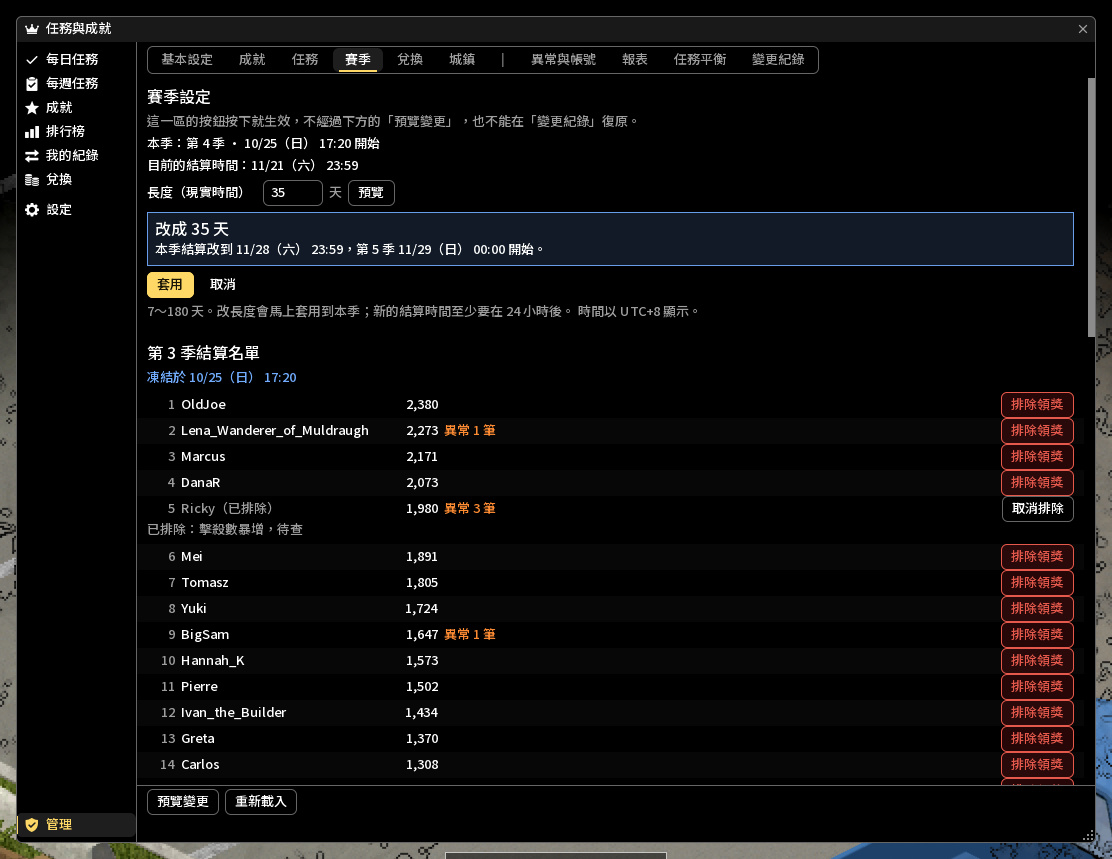
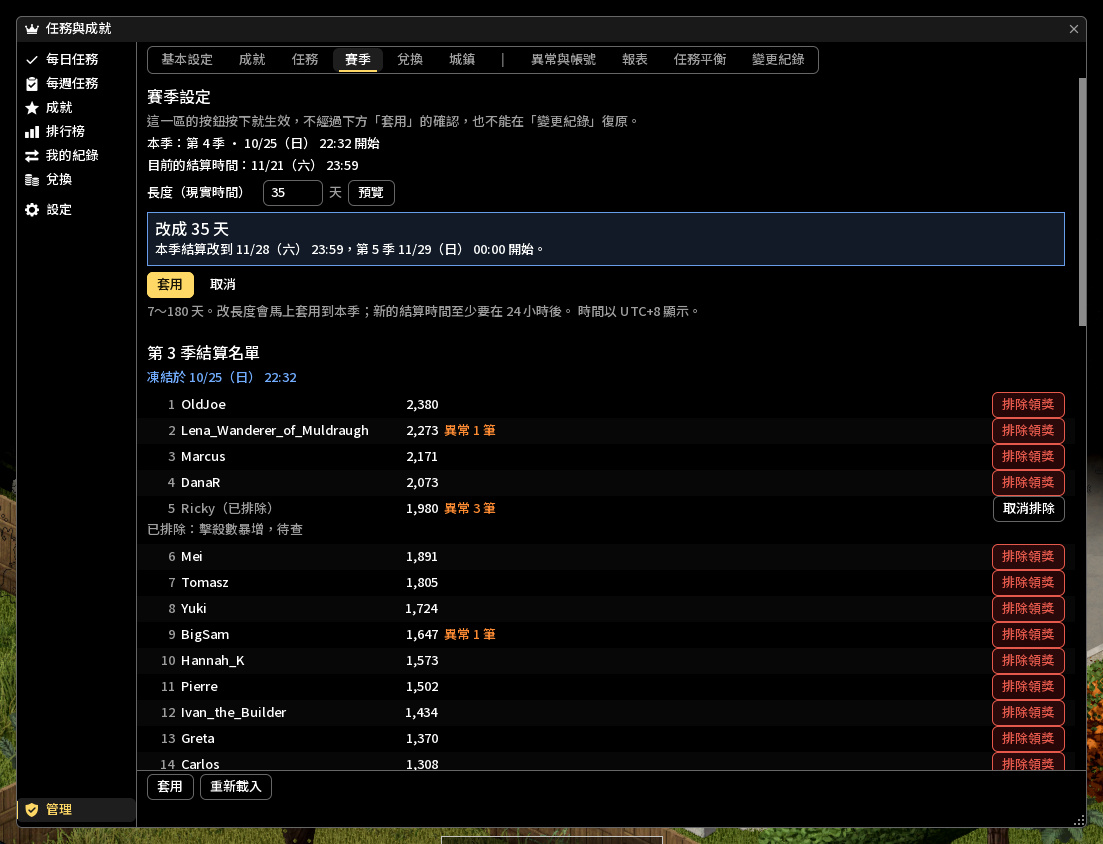
試玩回饋：底部「預覽變更」改名「套用」（16 語與相關說明、README、Steam 指南）；修任務頁「跳到」按鈕點了沒反應（自訂欄位蓋掉 ISButton 的 target，harness 與 E2E 改走 ISButton 的派送）；報表改藍橘配色、大數字同色、成就欄頭用各級顏色；Steam 指南補報表分頁（ui-mp CH／EN／RU 1025m）

Changed region(s): [[0.0, 0.0616, 1.0, 1.0], [0.0, 0.0, 0.0925, 0.2773], [0.3699, 0.4621, 0.4624, 0.6161]]

diff --git a/STEAM_GUIDE_EN.md b/STEAM_GUIDE_EN.md
@@ -298,9 +298,9 @@ The sandbox page "Minidoracat Quests & Achievements" has three options; everythi
 Open "Admin" on the left of the window (its own group at the bottom of the list); only roles listed in the "Admin roles" sandbox option see it, and the server checks every action again.
 [h3]How changes work[/h3]
 [list]
-[*] [b]Tabs[/b]: settings come first (General, Achievements, Quests, Season, Exchange, Towns); after the divider come operations (Players, Balance, History).
-[*] [b]Draft first[/b]: edits go into pending changes; press "Preview changes" to see old and new values, then apply. "Discard changes" asks before it discards.
-[*] [b]Instant buttons[/b]: timed events, the payout review and account actions skip the preview; those sections say so.
+[*] [b]Tabs[/b]: settings come first (General, Achievements, Quests, Season, Exchange, Towns); after the divider come operations (Players, Report, Balance, History).
+[*] [b]Draft first[/b]: edits go into pending changes; press "Apply" at the bottom to see old and new values, then confirm. "Discard changes" asks before it discards.
+[*] [b]Instant buttons[/b]: timed events, the payout review and account actions skip that confirmation; those sections say so.
 [*] [b]Unlocks are kept[/b]: higher thresholds only affect what comes next.
 [*] [b]Times[/b]: shown in the sandbox time zone.
 [/list]
@@ -324,7 +324,7 @@ Steps 1-5 cover the common settings; the other tabs hold the rest.
 [/list]
 [h3]Quests[/h3]
 [list]
-[*] [b]Players see each theme's quests[/b]: the switch at the top of the tab, off by default. While it is off only admins see the quests-by-theme list at the bottom of Settings, with a note that players cannot see it; turned on, players see it too. Like other settings it goes into pending changes, is previewed before it applies, and shows in History.
+[*] [b]Players see each theme's quests[/b]: the switch at the top of the tab, off by default. Off, only admins see the quests-by-theme list at the bottom of Settings, marked as hidden from players; on, players see it too. It goes through Apply and History like any setting.
 [*] [b]Theme filter[/b]: the list shows how many daily and weekly quests each theme has; with a theme picked, buttons beside the filter turn the whole group on or off, or multiply its targets by 0.8 or 1.25. The result goes into pending changes, the bar says what was done, and templates with pending changes show "(changed)". Buttons under the filter jump to the community goal, streak rewards, newcomer quests and timed events.
 [*] [b]Daily and weekly pools[/b]: on/off, target range and points per template; of two templates with the same name, the bigger one shows "(bulk)".
 [*] [b]Daily and weekly settings[/b]: points for the server-wide quest, swaps per day, weekly quests.
@@ -353,6 +353,14 @@ Steps 1-5 cover the common settings; the other tabs hold the rest.
 [*] [b]Look up an account[/b]: View on a row, or type the account, lists at the top of the page its three point numbers, achievements, anomalies this season and whether it is removed from the leaderboards.
 [*] [b]Revoke achievements[/b]: down to a chosen tier, or all of it.
 [*] [b]Remove from or return to the leaderboards[/b]: data is kept. Revoking and removing require a reason and record who did it.
+[/list]
+[h3]Report[/h3]
+[list]
+[*] [b]Scope[/b]: totals for the last 7 or 30 days, counts only, no individual players; recounted when the page opens and kept for 5 minutes.
+[*] [b]Usage[/b]: players with activity today and in the period, new accounts, daily and weekly completion, swaps, 7+ day streaks, and a pair of bars per day: players with activity and players who finished a daily quest.
+[*] [b]Points[/b]: paid out in the period and the share from each source, coins exchanged, unspent points and the share the top 10% hold.
+[*] [b]Achievements[/b]: players per tier of each achievement; those nobody unlocked come last (hidden ones counted, not named).
+[*] [b]Export JSON[/b]: report-YYYY-MM-DD.json beside config.json, one per day, with no player names or accounts.
 [/list]
 [h3]Balance[/h3]
 [list]

diff --git a/STEAM_GUIDE.md b/STEAM_GUIDE.md
@@ -298,9 +298,9 @@ https://steamcommunity.com/sharedfiles/filedetails/?id=WORKSHOP_ID
 在視窗左側「管理」開啟（自成一組，在導覽最下面），只有沙盒「管理角色」裡的角色看得到；每個操作都由伺服器再核對。
 [h3]改設定的流程[/h3]
 [list]
-[*] [b]分頁[/b]：前面是設定（基本設定、成就、任務、賽季、兌換、城鎮），分隔線後是營運（異常與帳號、任務平衡、變更紀錄）。
-[*] [b]先放進變更[/b]：改的值先進「待套用的變更」，按「預覽變更」看新舊值，確認後才套用；按「放棄變更」會先問一次。
-[*] [b]按下就生效[/b]：限時活動、結算名單與帳號操作的按鈕不經過預覽，這幾區都有標示。
+[*] [b]分頁[/b]：前面是設定（基本設定、成就、任務、賽季、兌換、城鎮），分隔線後是營運（異常與帳號、報表、任務平衡、變更紀錄）。
+[*] [b]先放進變更[/b]：改的值先進「待套用的變更」，按底部的「套用」會先列出新舊值，確認後才生效；按「放棄變更」會先問一次。
+[*] [b]按下就生效[/b]：限時活動、結算名單與帳號操作的按鈕不經過這一步確認，這幾區都有標示。
 [*] [b]已解鎖不收回[/b]：門檻調高只影響之後。
 [*] [b]時間[/b]：管理頁的時間照沙盒時區顯示。
 [/list]
@@ -324,7 +324,7 @@ https://steamcommunity.com/sharedfiles/filedetails/?id=WORKSHOP_ID
 [/list]
 [h3]任務[/h3]
 [list]
-[*] [b]玩家看得到各主題的任務[/b]：分頁最上面的開關，預設關。關著時只有管理員在「設定」最下面看得到各主題的任務清單，清單旁註明玩家看不到；打開後玩家也看得到。和其他設定一樣先放進變更、預覽後套用，記在變更紀錄。
+[*] [b]玩家看得到各主題的任務[/b]：分頁最上面的開關，預設關。關著時只有管理員在「設定」最下面看得到各主題的任務清單，清單旁註明玩家看不到；打開後玩家也看得到。和其他設定一樣先放進變更，按「套用」確認後生效，記在變更紀錄。
 [*] [b]主題篩選[/b]：選單寫出每個主題的每日與每週任務數；選了主題，篩選旁可以整組啟用、停用，或把目標乘 0.8／1.25，結果先放進變更，底部寫出做了什麼，有待套用變更的樣板標「（已改）」。篩選下方的按鈕可直接跳到共同目標、連續獎勵、新手任務、限時活動。
 [*] [b]每日與每週任務池[/b]：每個樣板的開關、目標區間與積分；名稱相同的兩個樣板，目標較大的標「（大量）」。
 [*] [b]每日與每週設定[/b]：全服任務的積分、每天可換幾次、每週任務數。
@@ -353,6 +353,14 @@ https://steamcommunity.com/sharedfiles/filedetails/?id=WORKSHOP_ID
 [*] [b]查帳號[/b]：按某一筆的「查看」或輸入帳號，頁面上方列出三個積分、成就數、本季異常數、是否被移出排行榜。
 [*] [b]撤銷成就[/b]：指定撤到第幾級或全部撤銷。
 [*] [b]移出或放回排行榜[/b]：資料保留。撤銷與移出都要寫原因，會記下操作者。
+[/list]
+[h3]報表[/h3]
+[list]
+[*] [b]範圍[/b]：近 7 天或近 30 天的總數，只有人數與合計，沒有個別玩家；開頁面時重新統計，結果留 5 分鐘。
+[*] [b]使用情形[/b]：今天與期間內有活動的人數、新帳號、每日與每週任務完成率、換掉任務次數、連續 7 天以上的人數，並用每天一組長條比較有活動的人數與完成每日任務的人數。
+[*] [b]積分[/b]：期間發出的積分與各來源比例、換成倖存幣的數量、全服沒花的積分與前 10% 玩家持有的比例。
+[*] [b]成就[/b]：每項成就各級的人數，沒人解鎖的列在最後（隱藏成就只算數量）。
+[*] [b]匯出 JSON[/b]：存成 config.json 同一個資料夾裡的 report-YYYY-MM-DD.json，一天一個檔，檔案裡沒有玩家名稱或帳號。
 [/list]
 [h3]任務平衡[/h3]
 [list]
